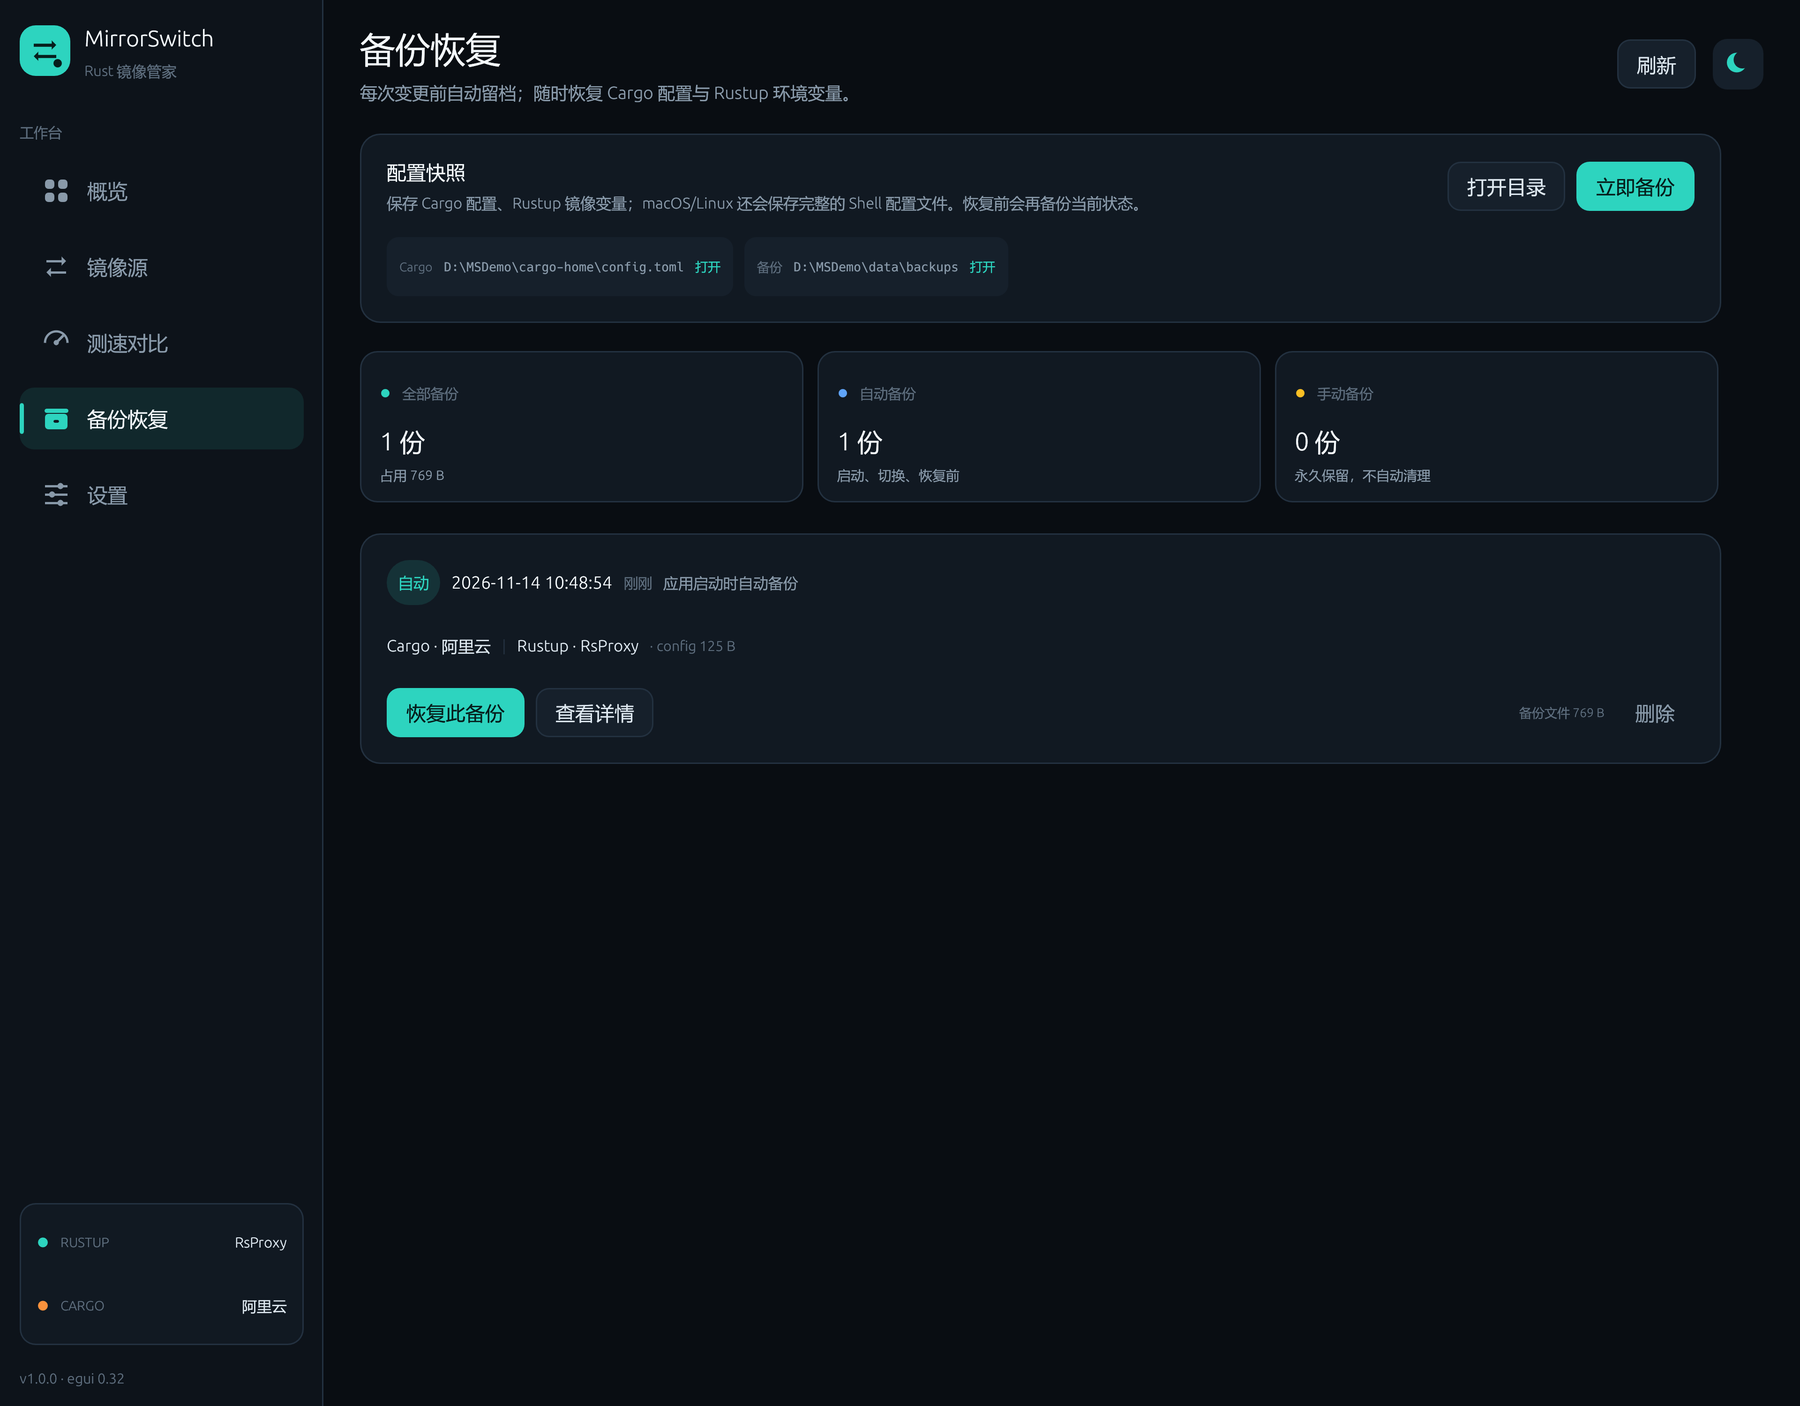
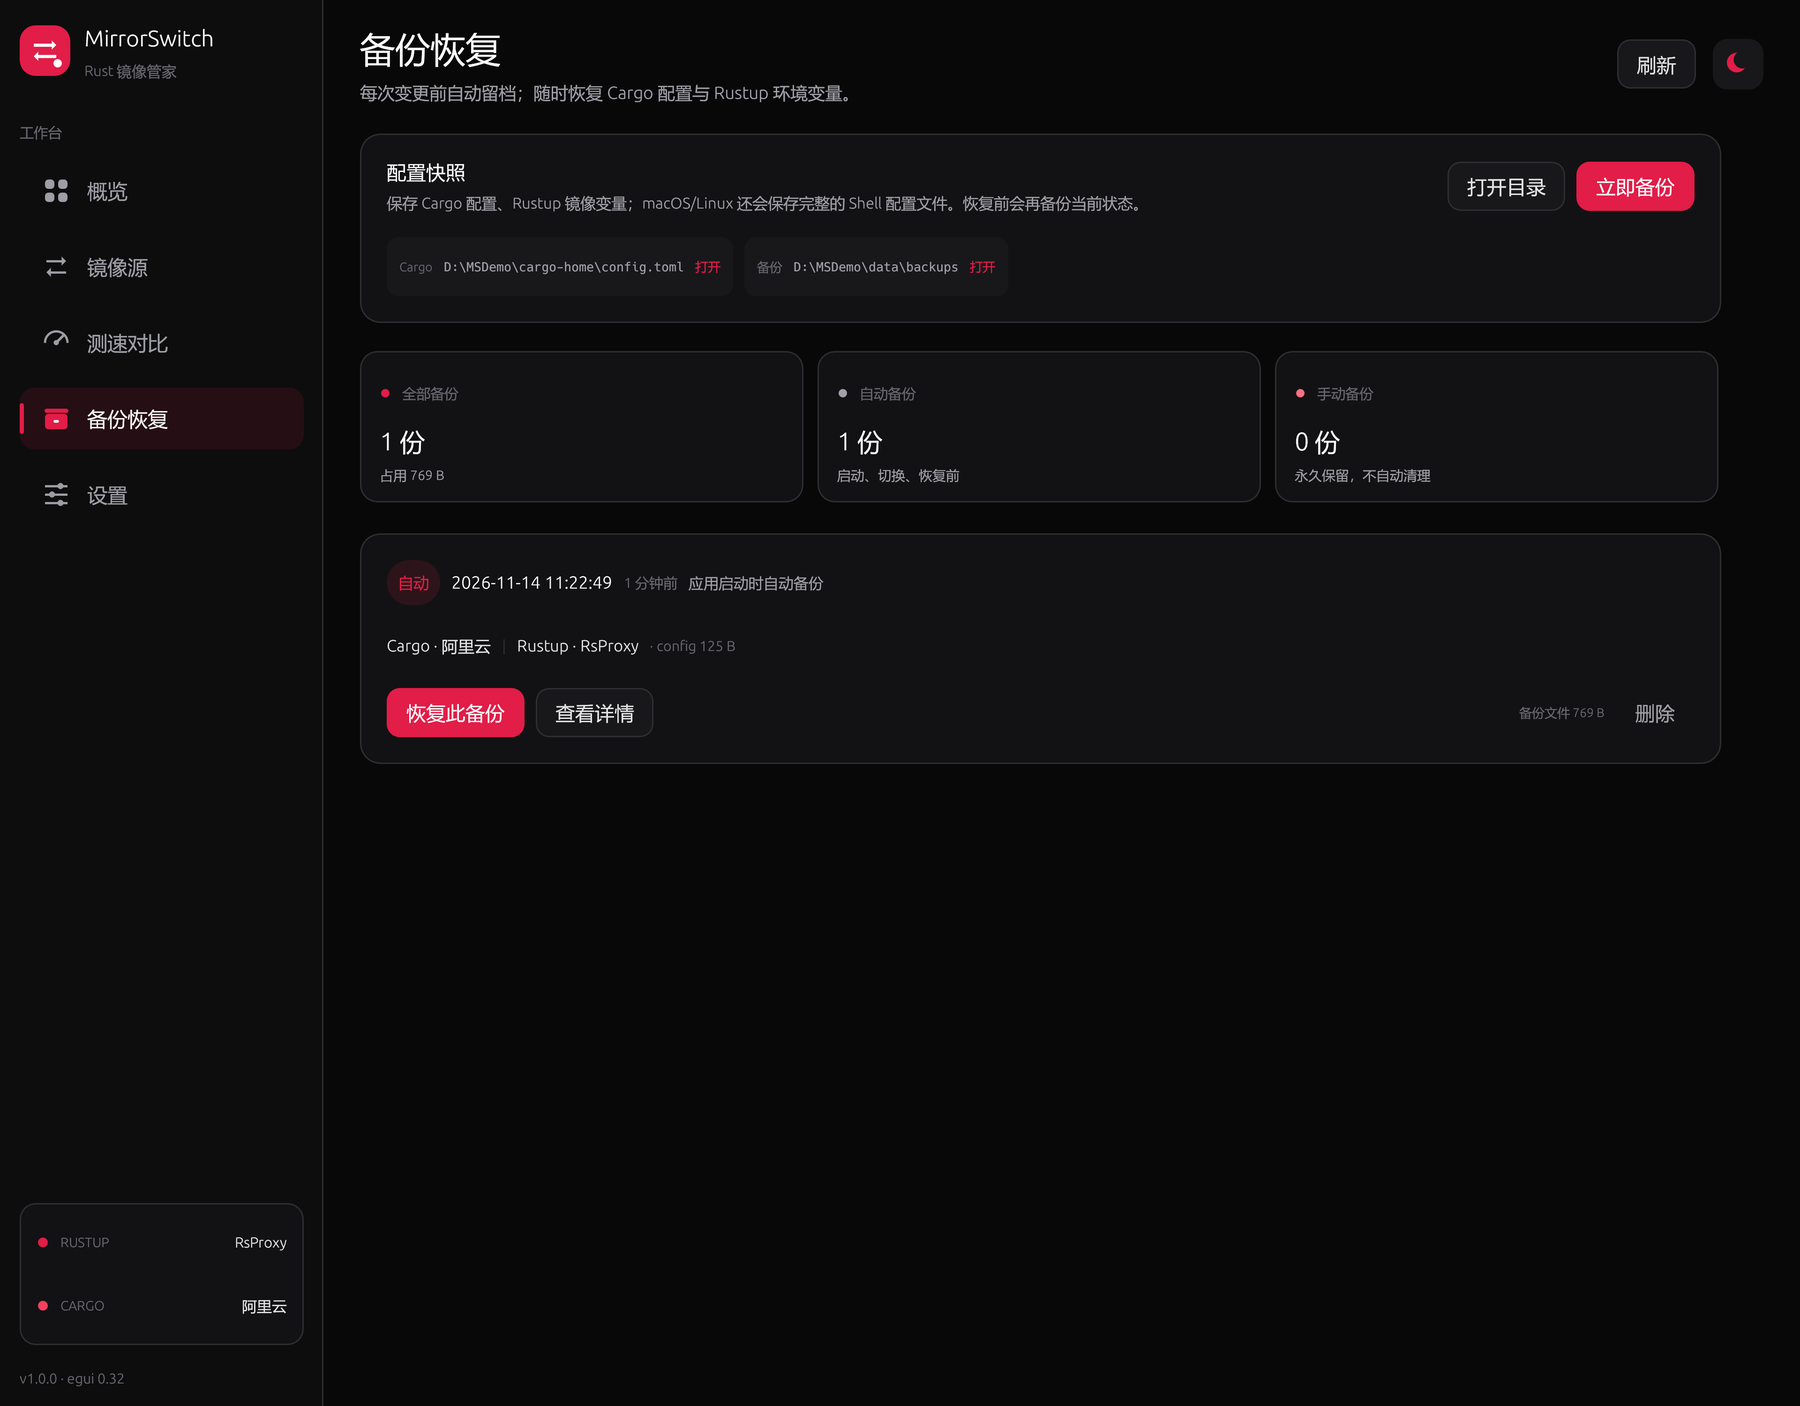
feat(ui): adopt black white gray and red theme

diff --git a/src/theme.rs b/src/theme.rs
@@ -7,6 +7,10 @@ use eframe::egui::{
 
 use crate::settings::ThemeMode;
 
+/// The palette is intentionally restricted to black, white, gray and red.
+/// Semantic colors (success/warning/danger/info) are expressed with neutral
+/// grays or red shades instead of green/blue/orange, so the UI stays within the
+/// four-color theme.
 #[derive(Clone, Copy, Debug)]
 pub struct Palette {
     pub dark: bool,
@@ -36,47 +40,47 @@ impl Palette {
         match mode {
             ThemeMode::Dark => Self {
                 dark: true,
-                bg: Color32::from_rgb(9, 13, 18),
-                panel: Color32::from_rgb(13, 19, 26),
-                surface: Color32::from_rgb(17, 25, 34),
-                surface_2: Color32::from_rgb(22, 32, 43),
-                surface_3: Color32::from_rgb(28, 40, 52),
-                border: Color32::from_rgb(35, 49, 64),
-                border_strong: Color32::from_rgb(52, 70, 88),
-                text: Color32::from_rgb(222, 232, 240),
-                text_strong: Color32::from_rgb(244, 249, 252),
-                muted: Color32::from_rgb(137, 154, 170),
-                faint: Color32::from_rgb(93, 109, 125),
-                accent: Color32::from_rgb(45, 212, 191),
-                accent_hover: Color32::from_rgb(94, 234, 212),
-                accent_soft: Color32::from_rgba_unmultiplied(45, 212, 191, 28),
-                on_accent: Color32::from_rgb(6, 30, 28),
-                success: Color32::from_rgb(74, 222, 128),
-                warning: Color32::from_rgb(251, 191, 36),
-                danger: Color32::from_rgb(248, 113, 113),
-                info: Color32::from_rgb(96, 165, 250),
+                bg: Color32::from_rgb(8, 8, 9),
+                panel: Color32::from_rgb(13, 13, 14),
+                surface: Color32::from_rgb(18, 18, 20),
+                surface_2: Color32::from_rgb(24, 24, 27),
+                surface_3: Color32::from_rgb(32, 32, 35),
+                border: Color32::from_rgb(46, 46, 50),
+                border_strong: Color32::from_rgb(70, 70, 76),
+                text: Color32::from_rgb(228, 228, 231),
+                text_strong: Color32::from_rgb(250, 250, 251),
+                muted: Color32::from_rgb(158, 158, 165),
+                faint: Color32::from_rgb(102, 102, 110),
+                accent: Color32::from_rgb(225, 29, 72),
+                accent_hover: Color32::from_rgb(251, 113, 133),
+                accent_soft: Color32::from_rgba_unmultiplied(225, 29, 72, 30),
+                on_accent: Color32::from_rgb(255, 255, 255),
+                success: Color32::from_rgb(228, 228, 231),
+                warning: Color32::from_rgb(251, 113, 133),
+                danger: Color32::from_rgb(239, 68, 68),
+                info: Color32::from_rgb(161, 161, 170),
             },
             ThemeMode::Light => Self {
                 dark: false,
-                bg: Color32::from_rgb(241, 245, 248),
-                panel: Color32::from_rgb(250, 252, 253),
+                bg: Color32::from_rgb(247, 247, 248),
+                panel: Color32::from_rgb(252, 252, 252),
                 surface: Color32::from_rgb(255, 255, 255),
-                surface_2: Color32::from_rgb(246, 249, 251),
-                surface_3: Color32::from_rgb(237, 243, 247),
-                border: Color32::from_rgb(214, 224, 232),
-                border_strong: Color32::from_rgb(185, 199, 211),
-                text: Color32::from_rgb(35, 49, 61),
-                text_strong: Color32::from_rgb(15, 28, 39),
-                muted: Color32::from_rgb(96, 115, 130),
-                faint: Color32::from_rgb(139, 155, 168),
-                accent: Color32::from_rgb(13, 148, 136),
-                accent_hover: Color32::from_rgb(15, 118, 110),
-                accent_soft: Color32::from_rgba_unmultiplied(13, 148, 136, 22),
+                surface_2: Color32::from_rgb(248, 248, 249),
+                surface_3: Color32::from_rgb(240, 240, 241),
+                border: Color32::from_rgb(224, 224, 227),
+                border_strong: Color32::from_rgb(197, 197, 202),
+                text: Color32::from_rgb(39, 39, 42),
+                text_strong: Color32::from_rgb(15, 15, 17),
+                muted: Color32::from_rgb(100, 100, 108),
+                faint: Color32::from_rgb(145, 145, 153),
+                accent: Color32::from_rgb(190, 18, 60),
+                accent_hover: Color32::from_rgb(159, 18, 57),
+                accent_soft: Color32::from_rgba_unmultiplied(190, 18, 60, 22),
                 on_accent: Color32::from_rgb(255, 255, 255),
-                success: Color32::from_rgb(22, 163, 74),
-                warning: Color32::from_rgb(180, 83, 9),
-                danger: Color32::from_rgb(220, 38, 38),
-                info: Color32::from_rgb(37, 99, 235),
+                success: Color32::from_rgb(24, 24, 27),
+                warning: Color32::from_rgb(190, 18, 60),
+                danger: Color32::from_rgb(153, 27, 27),
+                info: Color32::from_rgb(82, 82, 91),
             },
         }
     }
@@ -105,14 +109,14 @@ impl Palette {
 
 pub fn provider_color(id: &str) -> Color32 {
     match id {
-        "rsproxy" => Color32::from_rgb(45, 212, 191),
-        "ustc" => Color32::from_rgb(96, 165, 250),
-        "tuna" => Color32::from_rgb(167, 139, 250),
-        "sjtu" => Color32::from_rgb(248, 113, 113),
-        "aliyun" => Color32::from_rgb(251, 146, 60),
-        "huawei" => Color32::from_rgb(239, 68, 68),
-        "official" => Color32::from_rgb(148, 163, 184),
-        _ => Color32::from_rgb(148, 163, 184),
+        "rsproxy" => Color32::from_rgb(225, 29, 72),
+        "ustc" => Color32::from_rgb(161, 161, 170),
+        "tuna" => Color32::from_rgb(113, 113, 122),
+        "sjtu" => Color32::from_rgb(251, 113, 133),
+        "aliyun" => Color32::from_rgb(244, 63, 94),
+        "huawei" => Color32::from_rgb(113, 113, 122),
+        "official" => Color32::from_rgb(161, 161, 170),
+        _ => Color32::from_rgb(113, 113, 122),
     }
 }
 

diff --git a/src/widgets.rs b/src/widgets.rs
@@ -155,9 +155,9 @@ fn arrow_head(painter: &egui::Painter, tip: egui::Pos2, direction: f32, color: C
 
 fn palette_contrast(color: Color32) -> Color32 {
     if color.r() as u16 + color.g() as u16 + color.b() as u16 > 380 {
-        Color32::from_rgb(15, 23, 32)
+        Color32::from_rgb(15, 15, 17)
     } else {
-        Color32::from_rgb(240, 248, 250)
+        Color32::from_rgb(245, 245, 246)
     }
 }
 

diff --git a/src/app.rs b/src/app.rs
@@ -2742,7 +2742,7 @@ impl MirrorSwitchApp {
                     }
                 }
                 ui.label(
-                    RichText::new("主题会立即应用并保存。")
+                    RichText::new("固定四色体系：黑 / 白 / 灰 / 红。切换后立即保存。")
                         .size(10.5)
                         .color(palette.faint),
                 );

diff --git a/src/main.rs b/src/main.rs
@@ -141,8 +141,8 @@ fn install_panic_hook() {
 fn app_icon() -> egui::IconData {
     const SIZE: usize = 64;
     let mut rgba = vec![0u8; SIZE * SIZE * 4];
-    let accent = [45u8, 212, 191];
-    let dark = [8u8, 22, 26];
+    let accent = [225u8, 29, 72];
+    let dark = [10u8, 10, 12];
     for y in 0..SIZE {
         for x in 0..SIZE {
             let index = (y * SIZE + x) * 4;

diff --git a/README.md b/README.md
@@ -3,7 +3,7 @@
 **Rust 镜像管家** —— 用 Rust + [egui](https://github.com/emilk/egui) 编写的 Windows / macOS 桌面工具，集中切换 Rustup / Cargo 镜像、测速对比并备份恢复配置。
 
 [![License: MIT](https://img.shields.io/badge/License-MIT-yellow.svg)](LICENSE)
-![Platform](https://img.shields.io/badge/platform-Windows%20%7C%20macOS-2DD4BF)
+![Platform](https://img.shields.io/badge/platform-Windows%20%7C%20macOS-E11D48)
 ![Rust](https://img.shields.io/badge/rust-1.88%2B-orange)
 
 ![概览](docs/screenshots/overview.png)
@@ -30,7 +30,7 @@
   - 恢复前再次备份当前状态，因此恢复本身可以撤销。
   - 备份详情可查看完整 Cargo 配置内容与当时的 Rustup 环境配置；macOS/Linux 还会保存完整的 Shell 配置文件。
 - **细节**
-  - 深色 / 浅色主题、中文界面、CJK 字体自动检测（Windows 微软雅黑 / macOS 苹方）。
+  - 深色 / 浅色主题，统一使用黑、白、灰、红四色体系；中文界面与 CJK 字体自动检测（Windows 微软雅黑 / macOS 苹方）。
   - 操作日志、路径快捷打开/复制、失败提示。
   - Windows 单文件发布；macOS 提供 `.app` 打包脚本，无遥测。
 
@@ -72,7 +72,11 @@ open dist/MirrorSwitch.app
 
 ## 界面
 
-> 截图为 Windows 版本；macOS 使用原生窗口、苹方字体和相同的布局。
+> 截图为 Windows 版本；macOS 使用原生窗口、苹方字体和相同的布局。界面统一使用黑、白、灰、红四色体系。
+
+| 深色（默认） | 浅色 |
+| --- | --- |
+| ![深色概览](docs/screenshots/overview.png) | ![浅色概览](docs/screenshots/overview-light.png) |
 
 | 镜像源 | 测速对比 |
 | --- | --- |

diff --git a/CHANGELOG.md b/CHANGELOG.md
@@ -21,7 +21,7 @@
   - macOS：托管 Shell 配置块（zsh/bash/fish/sh）+ `launchctl setenv`。
 - 镜像测速：延迟、真实 crate/工具链清单下载、综合评分、官方源基线、失败原因。
 - 备份与恢复：自动/手动快照、去重、滚动清理、恢复前再备份、完整 Cargo 与 Shell 文件快照。
-- 深色/浅色主题、中文字体自动检测、操作日志、单文件 Windows 构建与 macOS `.app` 打包。
+- 深色/浅色主题，统一采用黑、白、灰、红四色体系；中文字体自动检测、操作日志、单文件 Windows 构建与 macOS `.app` 打包。
 - 内置 RsProxy、USTC、TUNA、SJTU、阿里云、华为云镜像；USTC 因 Cargo 下载端点异常仅启用 Rustup。
 - GitHub Actions：Windows/macOS CI、Rust 1.88 MSRV、tag 发布工作流。
 
